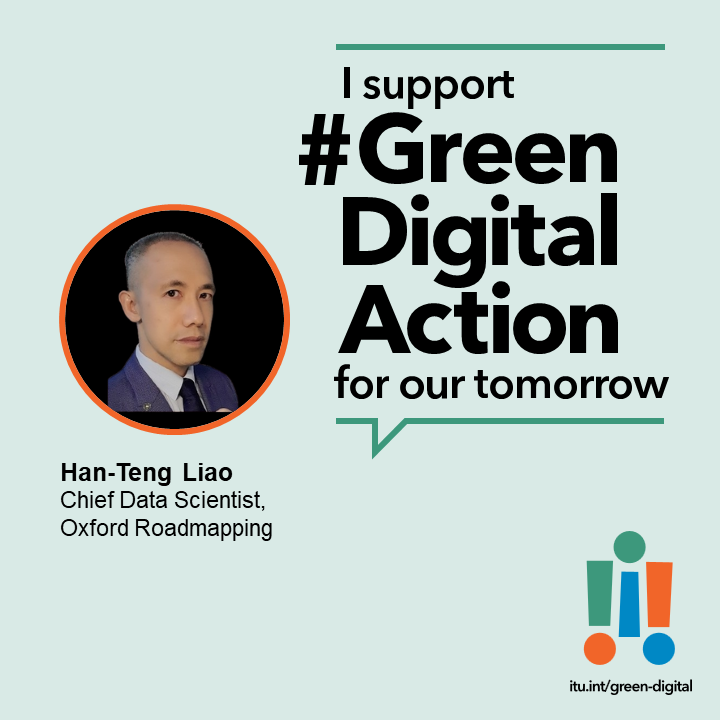
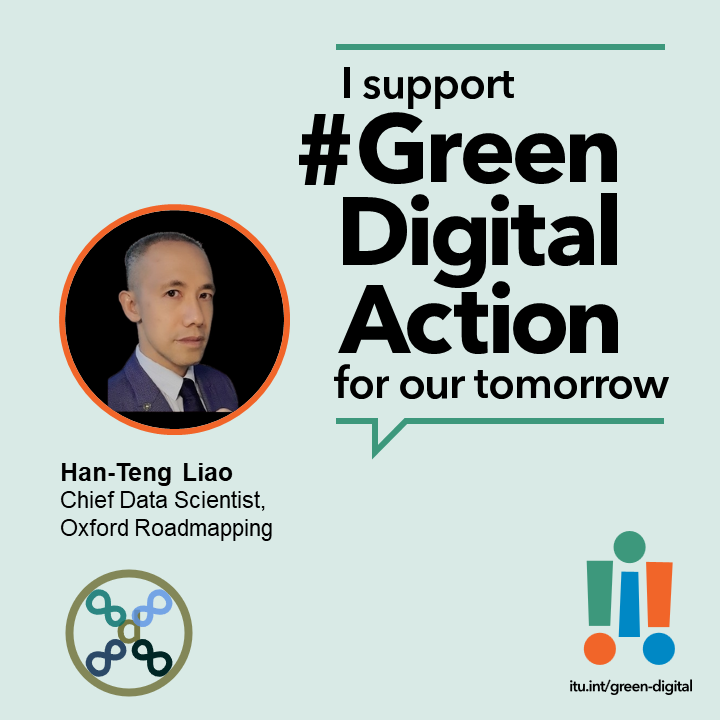
GreenDigitalAction
GreenDigitalAction

Changed region(s): [[0.0917, 0.7944, 0.275, 0.9778]]

diff --git a/content/post/2023-11-27-ITU-green-digital-action/index.zh.md b/content/post/2023-11-27-ITU-green-digital-action/index.zh.md
@@ -1,5 +1,5 @@
 ---
-title:  '绿色化数字行动@COP28：国际电联ITU主张协调一致行动利用数字技术解决气候问题'
+title:  '双创加双化的绿色化数字行动@COP28：国际电联ITU主张协调一致行动利用数字技术解决气候问题'
 date: 2023-11-27
 categories:
 - Technology Roadmapping
@@ -14,10 +14,17 @@ tags:
 - 数字化绿色化双转型
 ---
 
-联合国气候大会COP28致力解决气候问题，负责ICT信息通讯技术的国际电联ITU，利用数字技术在COP28上召集绿色数字行动轨道，以加强数字气候行动。
+**联合国气候大会COP28**致力于解决气候问题。**国际电联ITU**负责ICT信息通讯技术，利用数字技术在COP28上号召**绿色数字行动** #GreenDigitalAction。
 
-特别是在数字创新创业方面，**澳恪森**表示，〝国际电联ITU在标准之外的[发展部门](https://www.itu.int/en/ITU-D/Pages/default.aspx)，更是倡导用数字创新来解决数字鸿沟的问题，更提出（数字）生态系统 （ecosystems）概念，将标准一方面往实际场景应用更紧密连结，一方面往技术治理更符合以人为中心的发展目标。〞
-澳恪森数据科学家廖汉腾博士表示，〝中国在**<span class="highlight-container highlight-green"><span class="highlight">绿色化</span></span><span class="highlight-container highlight-yellow"><span class="highlight">数字化</span></span>双化转型**前沿以及**互联网创新创业**大学生教育方面，应该借此世界机遇，从绿色化数字行动@COP28深入瞭解如何协调一致行动利用数字技术解决气候问题。〞
+〝**双创+双化**是最新整合路径！〞**澳恪森**表示，〝国际电联ITU在**数字**创新创业 (双创) 发挥重要作用，倡导用数字创新解决数字鸿沟问题。在国际标准之上，国际电联[发展部门](https://www.itu.int/en/ITU-D/Pages/default.aspx)
+，更以（数字）生态系统 （ecosystems）概念，
+引领国际
+<span class="highlight-container highlight-green"><span class="highlight">绿色化</span></span><span class="highlight-container highlight-yellow"><span class="highlight">数字化</span></span>**转型** 
+(双化)前沿发展。实际场景应用、标准、技术、治理通盘考量设计向前。〞
+
+数据科学家廖汉腾博士表示，中国在绿色
+〝中国在双化转型以及大学生**互联网创新创业** (双创)教育方面，〞澳恪森数据科学家廖汉腾博士表示，
+〝应该借此世界机遇，从绿色化数字行动@COP28深入瞭解如何协调一致行动利用数字技术解决气候问题。#GreenDigitalAction 在中国即**双创加双化**。〞
 
 <!--more-->
 
@@ -97,7 +104,7 @@ tags:
 
 ### 关于澳恪森数智科技
 澳恪森数智科技，简称Oxon8，全名为澳恪森数智科技服务（广州）有限公司，创新数智平台与绿色金融科技的设计，助组织与个人的双化协同发展及精准脱碳之旅。
-![icon.webp](icon.webp)
+![icon.png](icon.png)
 澳恪森Oxon8为行业﹑智库﹑政府等提供基于专利分析﹑科学计量﹑知识图谱等等数据情报，合作开展集科技研发﹑科技服务﹑成果转化﹑系统集成﹑人才培养﹑等科技创新公共及商业服务，运用前瞻情报连结在地及全球网络。
 
 ### 澳恪森数智科技支持 绿色化数字行动@COP28
